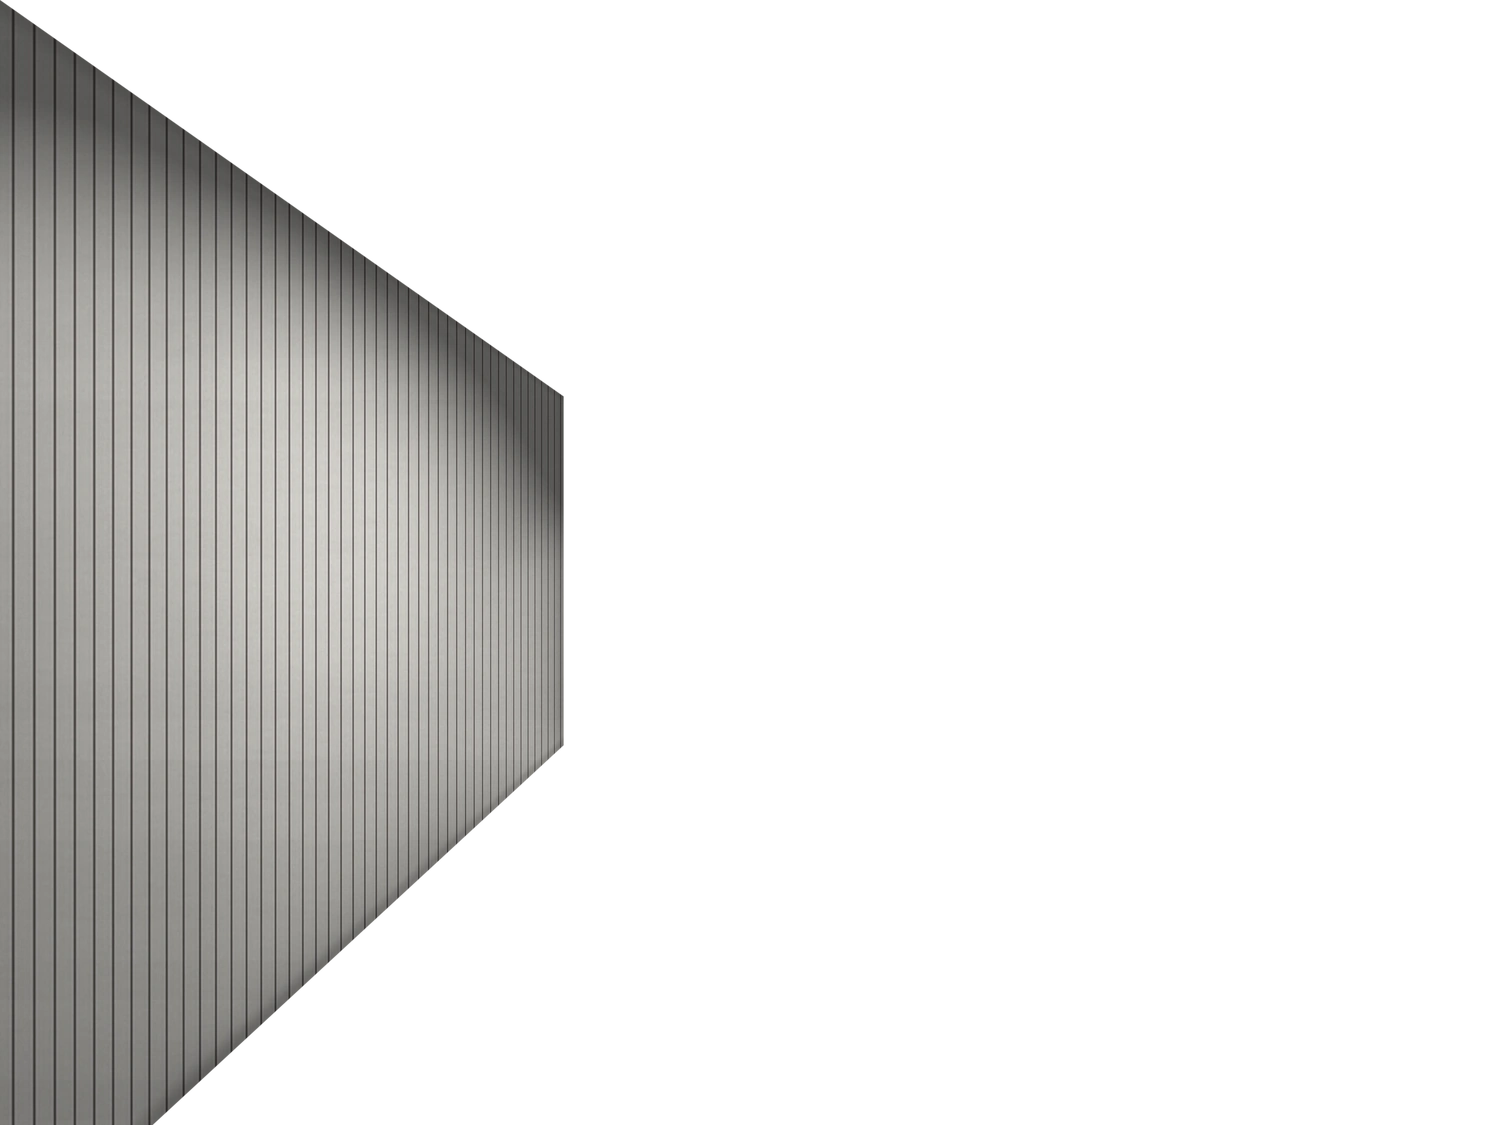
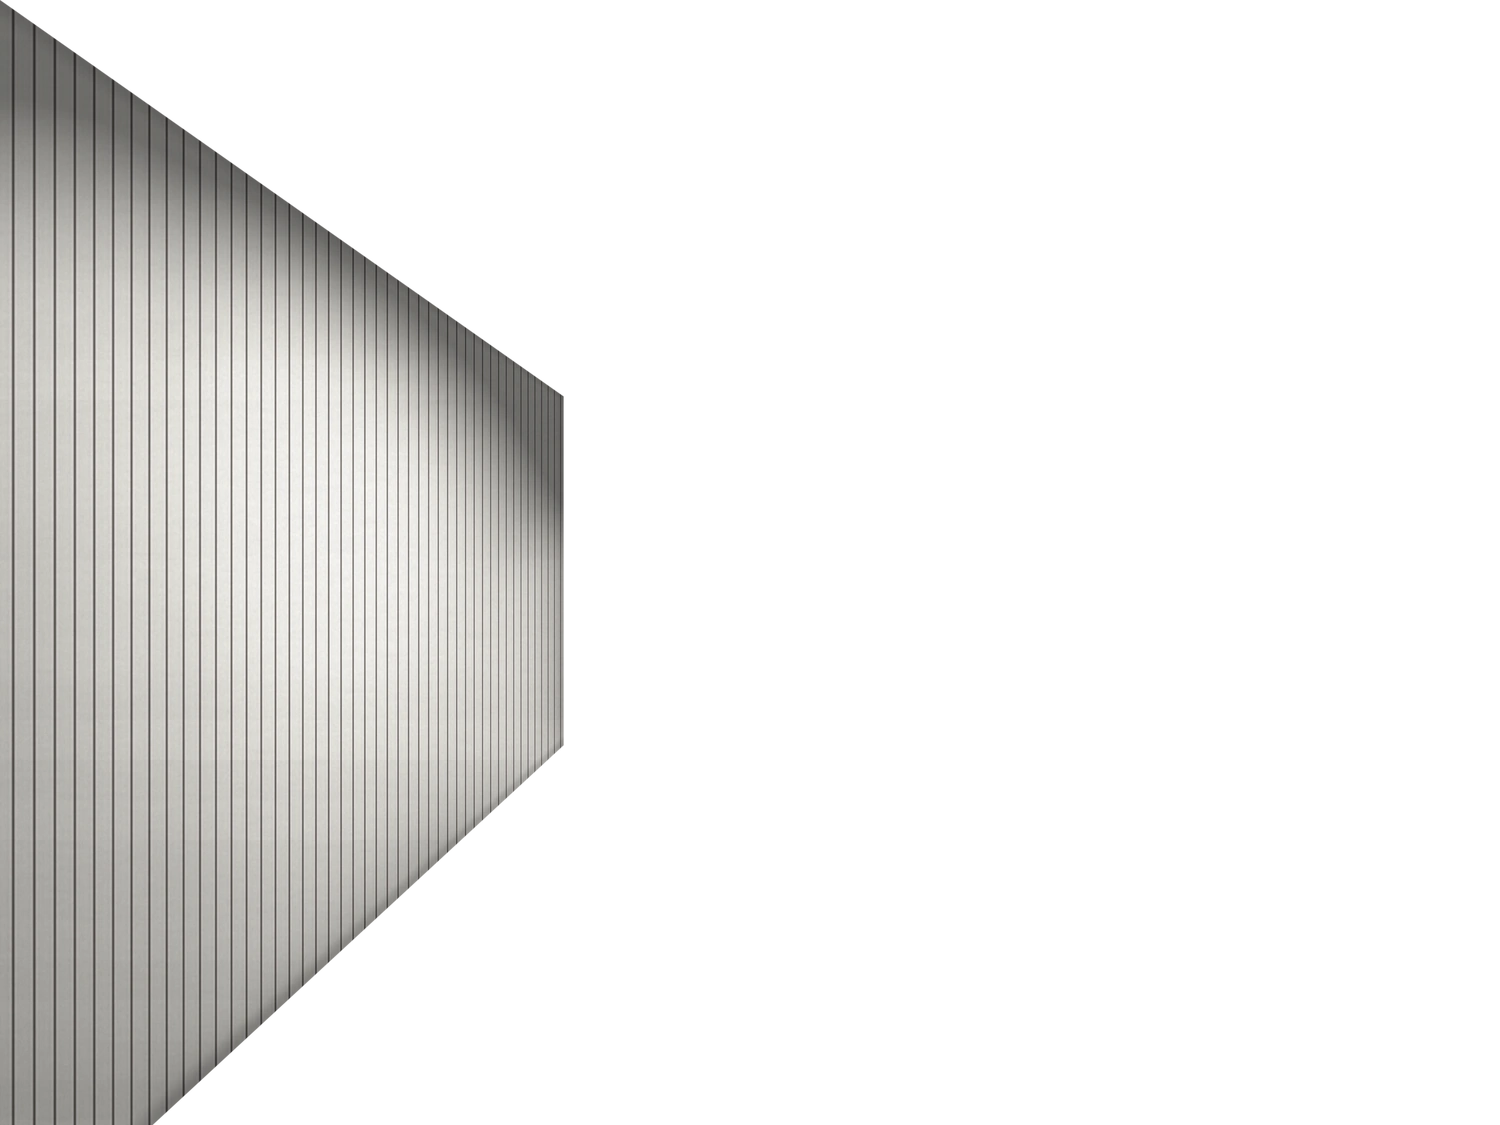
화이트 타공판 노출 보정(k=200): 실내 백색 벽면과 같은 밝기 대역으로 맞춤

Changed region(s): [[0.0, 0.0933, 0.3987, 1.0]]

diff --git a/assets/configurator.js b/assets/configurator.js
@@ -2880,9 +2880,9 @@ const photoWinImgs = {};
 /* 클린 화이트 전용 타공판 오버레이 — 실제 화이트 라인타공 시공 사진(clean-white.jpg)의
    홈줄 단면을 측량해 4배 슈퍼샘플링으로 다시 합성한 에셋 (AI 생성 아님) */
 const WHITE_SLATS = {
-  'slat_nocob': 'assets/slat-nocob-white.webp?v=3',
-  'side_left':  'assets/side-slat-white-left.webp?v=3',
-  'side_right': 'assets/side-slat-white-right.webp?v=3'
+  'slat_nocob': 'assets/slat-nocob-white.webp?v=4',
+  'side_left':  'assets/side-slat-white-left.webp?v=4',
+  'side_right': 'assets/side-slat-white-right.webp?v=4'
 };
 /* 화이트 타공판은 에셋 자체가 실사 화이트 도장면이므로, 선택한 도장 색만 곱해 톤을 맞춘다 */
 const WHITE_SLAT_REF = [223, 219, 208];   // 화이트워시(#DFDBD0) 기준값

diff --git a/configurator.html b/configurator.html
@@ -169,7 +169,7 @@
 
 <div class="toast" id="toast" role="status" aria-live="polite"></div>
 
-<script type="module" src="assets/configurator.js?v=20261123a"></script>
+<script type="module" src="assets/configurator.js?v=20261123b"></script>
 <noscript>
   <style>.panel-body{display:none}.panel-foot{display:none}</style>
   <p style="padding:20px">3D 견적 시뮬레이터는 자바스크립트가 필요합니다. 전화 상담 <a href="tel:01030015906">010-3001-5906</a> 으로 문의해 주세요.</p>
